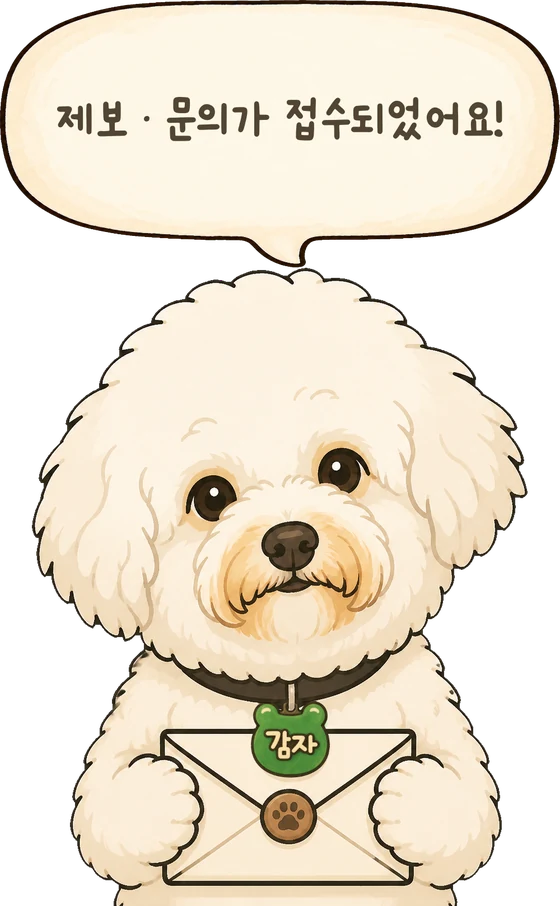
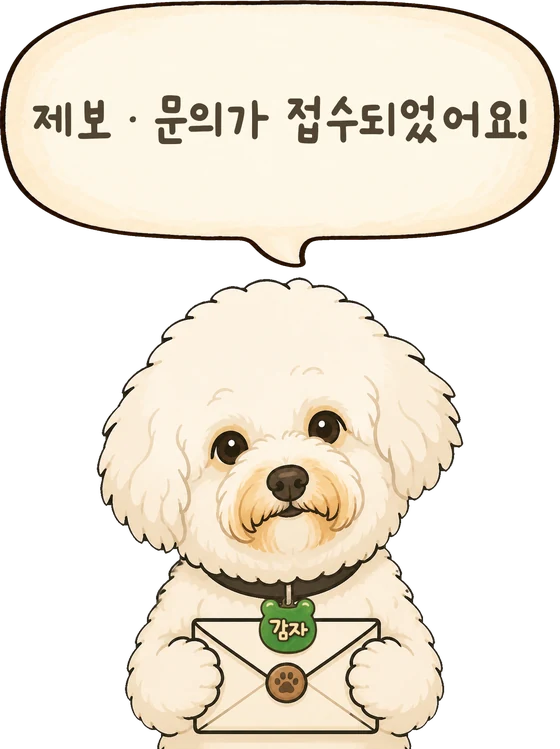
제보 폼 — 접수 완료 그림을 새 버전으로 (말풍선·글씨가 커진 것)

diff --git a/report.html b/report.html
@@ -532,7 +532,7 @@ body:not(.has-pick) #submitWrap { margin-top: auto; }
             🔴 문구를 고치면 `alt` 도 반드시 같이 고칠 것.
          원본: `data/mascot/02_export/감자-편지+이름표+말풍선.png` (1000×1617 투명 PNG)
          ⚠ 다시 내보낼 때는 빈 여백을 잘라내고 폭 560px webp 로. -->
-    <img class="rp-done-ic" src="assets/mascot/gamja-letter-bubble.webp" width="560" height="906"
+    <img class="rp-done-ic" src="assets/mascot/gamja-letter-bubble.webp" width="560" height="749"
          alt="제보 · 문의가 접수되었어요!" draggable="false" decoding="async">
     <p class="rp-done-body">소중한 의견 감사합니다.</p>
     <p class="rp-done-body" id="rpDoneReply" data-off>모든 의견에 답변드리지는 못하는 점 양해 부탁드립니다.</p>
